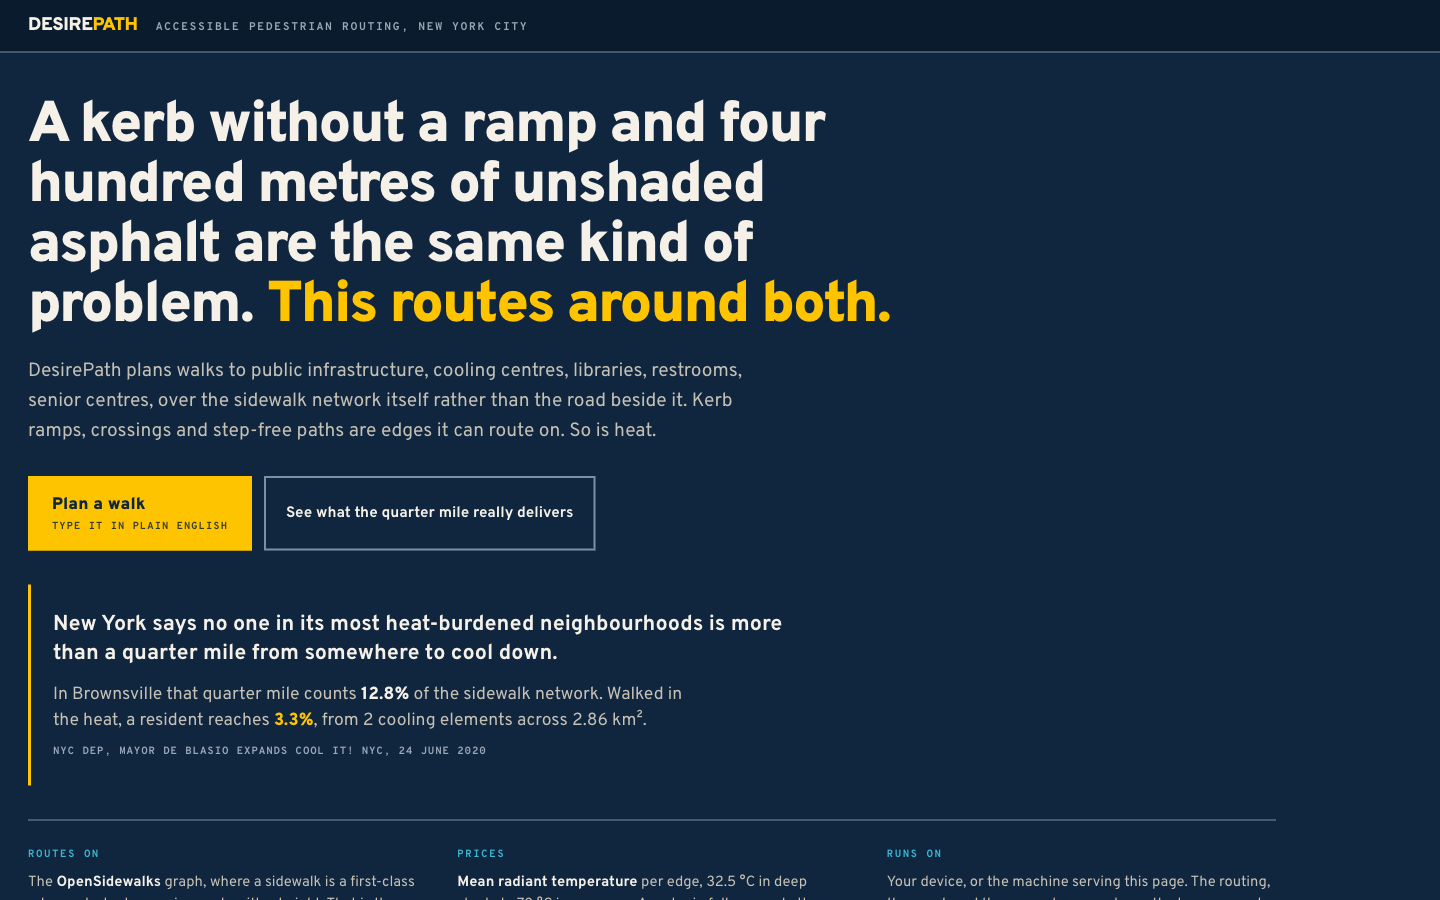
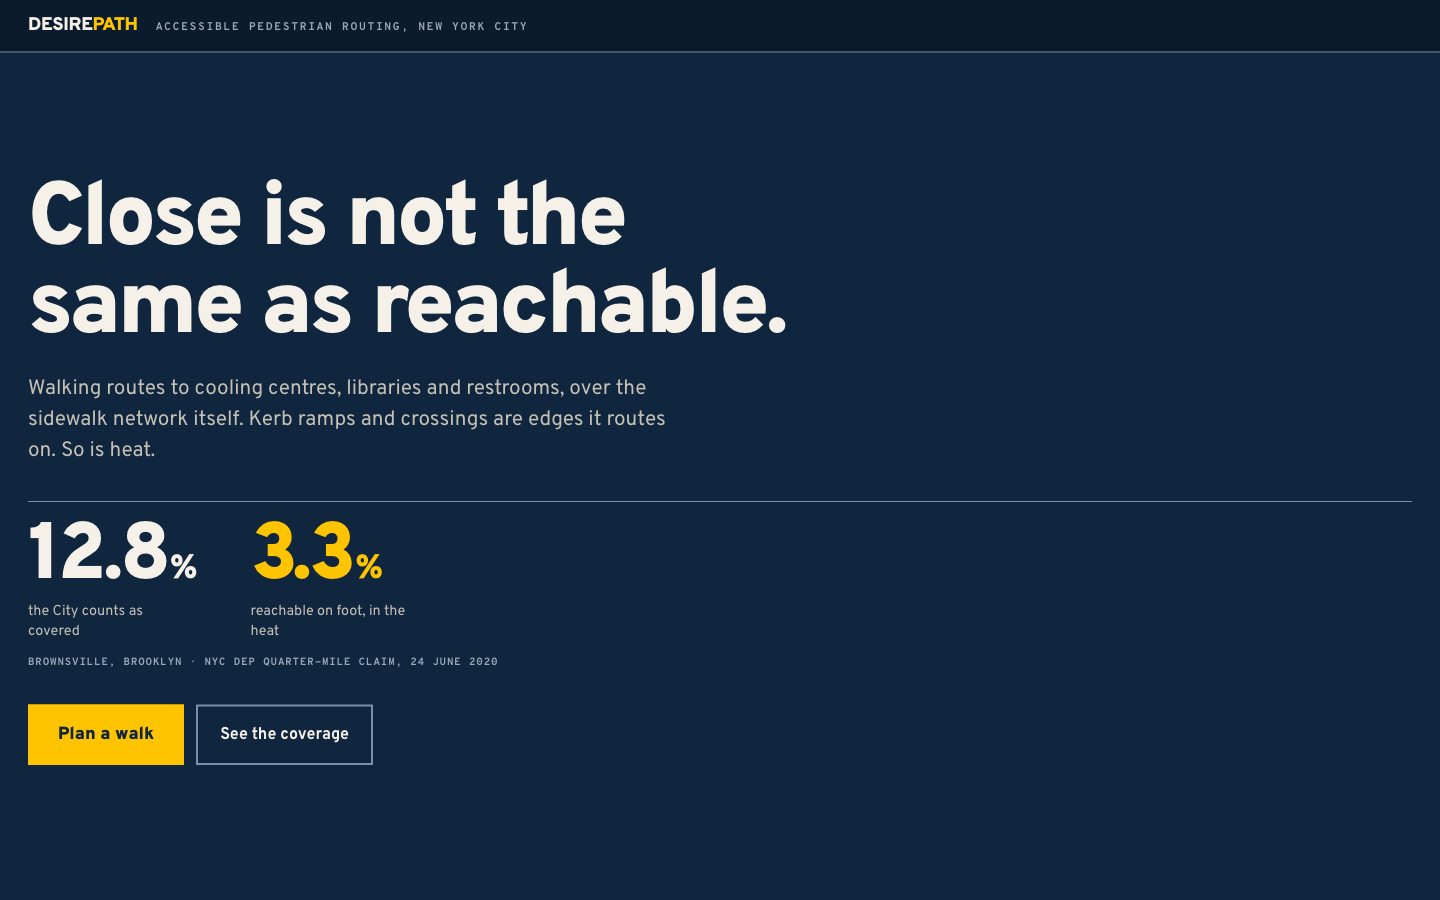
Cut the landing page down to a pitch backdrop
It was written as a document: three paragraphs, a three-column definition
list and a limits note. It is going on a projector while somebody talks over
it, so it has to be glanceable, not readable. Those facts are in README.md and
THESIS.md where somebody can actually sit with them.

What is left is a six-word line, one sentence of what it does, the two numbers
side by side, and the button. Title went from 27 words to six.

Slop audit clean: detector 0 findings across every route and component, 0
contrast failures at 1440 and 390, no target under 24px, one h1, one main, no
horizontal scroll.

diff --git a/app/src/routes/+page.svelte b/app/src/routes/+page.svelte
@@ -1,23 +1,23 @@
 <script lang="ts">
   /**
-   * The landing page.
+   * The landing page, which is a pitch backdrop.
    *
-   * One job: say what this is and get out of the way. The routing view is one
-   * click from here and the coverage notice is the other.
+   * It sits on a projector while somebody talks over it, so it is built to be
+   * glanced at rather than read: a line, a pair of numbers and one button. The
+   * first version was three paragraphs, a three-column definition list and a
+   * limits note, which is a document. Those facts live in README.md and
+   * THESIS.md, where somebody can actually read them.
    *
-   * It carries no model, no graph and no map, so it is ready the moment it is
-   * served. That matters on a phone in the heat, and it matters on a projector
-   * where the first thing a room sees should not be a loading bar.
+   * It loads no model, no graph and no map, so it is ready the moment it is
+   * served and there is never a loading bar behind the speaker.
    */
-  import { REFERENCE_METEOROLOGY } from '$lib/domain/thermal-constants';
-  import { SUN_INFLATION_DEFAULT, SUN_INFLATION_SENSITIVE } from '$lib/domain/thermal-constants';
 
-  /** Measured, from tests/thermal-cases.json and the coverage build. */
-  const BROWNSVILLE = { claimed: 12.8, reachable: 3.3, elements: 2, km2: 2.86 };
+  /** Measured. tests/thermal-cases.json and the coverage build. */
+  const BROWNSVILLE = { claimed: 12.8, reachable: 3.3 };
 </script>
 
 <svelte:head>
-  <title>DesirePath. Accessible routing to the places a city says are close</title>
+  <title>DesirePath. Close is not the same as reachable</title>
 </svelte:head>
 
 <div class="sheet">
@@ -26,91 +26,33 @@
     <p class="subject">Accessible pedestrian routing, New York City</p>
   </header>
 
-  <div class="body">
-    <!-- The thesis, at the top, in one sentence a person can repeat. -->
-    <section class="lede">
-      <h1>
-        A kerb without a ramp and four hundred metres of unshaded asphalt are
-        the same kind of problem. <span class="hi">This routes around both.</span>
-      </h1>
-      <p class="sub">
-        DesirePath plans walks to public infrastructure, cooling centres,
-        libraries, restrooms, senior centres, over the sidewalk network itself
-        rather than the road beside it. Kerb ramps, crossings and step-free
-        paths are edges it can route on. So is heat.
-      </p>
+  <div class="stage">
+    <h1>Close is not the same as reachable.</h1>
 
-      <div class="actions">
-        <a class="go" href="/route">
-          Plan a walk
-          <span class="go-sub">type it in plain English</span>
-        </a>
-        <a class="alt" href="/coverage?nta=BK1602">
-          See what the quarter mile really delivers
-        </a>
+    <p class="sub">
+      Walking routes to cooling centres, libraries and restrooms, over the
+      sidewalk network itself. Kerb ramps and crossings are edges it routes on.
+      So is heat.
+    </p>
+
+    <!-- The finding, as two numbers side by side. This is the thing to look at
+         while somebody says the sentence out loud. -->
+    <div class="figures">
+      <div class="fig">
+        <p class="fig-n">{BROWNSVILLE.claimed}<span class="pc">%</span></p>
+        <p class="fig-l">the City counts as covered</p>
       </div>
-    </section>
+      <div class="fig fig-short">
+        <p class="fig-n">{BROWNSVILLE.reachable}<span class="pc">%</span></p>
+        <p class="fig-l">reachable on foot, in the heat</p>
+      </div>
+      <p class="fig-where">Brownsville, Brooklyn &middot; NYC DEP quarter-mile claim, 24 June 2020</p>
+    </div>
 
-    <!-- The finding. One number, stated the way it would be said out loud. -->
-    <section class="finding">
-      <p class="claim">
-        New York says no one in its most heat-burdened neighbourhoods is more
-        than a quarter mile from somewhere to cool down.
-      </p>
-      <p class="against">
-        In Brownsville that quarter mile counts
-        <strong>{BROWNSVILLE.claimed}%</strong> of the sidewalk network. Walked
-        in the heat, a resident reaches
-        <strong class="short">{BROWNSVILLE.reachable}%</strong>, from
-        {BROWNSVILLE.elements} cooling elements across {BROWNSVILLE.km2} km².
-      </p>
-      <p class="cite">NYC DEP, Mayor de Blasio Expands Cool It! NYC, 24 June 2020</p>
-    </section>
-
-    <!-- What it is built on. Three facts, no icons, no cards. -->
-    <section class="how">
-      <dl>
-        <div>
-          <dt>Routes on</dt>
-          <dd>
-            The <strong>OpenSidewalks</strong> graph, where a sidewalk is a
-            first-class edge and a kerb ramp is a node with a height. That is
-            the contribution; this is a consumer of it.
-          </dd>
-        </div>
-        <div>
-          <dt>Prices</dt>
-          <dd>
-            <strong>Mean radiant temperature</strong> per edge, 32.5&nbsp;°C in
-            deep shade to 70&nbsp;°C in open sun. A metre in full sun costs the
-            router up to <strong>1.84&nbsp;metres</strong>, after Melnikov et
-            al. (2022) and 408 observed path choices.
-          </dd>
-        </div>
-        <div>
-          <dt>Runs on</dt>
-          <dd>
-            Your device, or the machine serving this page. The routing, the
-            graph and the geocoder never leave the browser, and the app says
-            which engine read your sentence.
-          </dd>
-        </div>
-      </dl>
-    </section>
-
-    <!-- The limits, on the front page rather than in a footnote. -->
-    <section class="limits">
-      <p>
-        Radiant temperature here is a <strong>proxy, not SOLWEIG</strong>, and
-        every artifact says so. Thermal survey covers five neighbourhoods,
-        7.67% of the city's edges; everywhere else routes exactly as it did
-        before. The field is one design hour, {REFERENCE_METEOROLOGY.air_temp_c}&nbsp;°C
-        air under clear sky, and does not know what time it is.
-        Sun inflation runs {SUN_INFLATION_DEFAULT} to {SUN_INFLATION_SENSITIVE}
-        and is <strong>0 unless a condition is stated</strong>, so a route with
-        none is identical to the one the pre-thermal router produced.
-      </p>
-    </section>
+    <div class="actions">
+      <a class="go" href="/route">Plan a walk</a>
+      <a class="alt" href="/coverage?nta=BK1602">See the coverage</a>
+    </div>
   </div>
 </div>
 
@@ -151,108 +93,61 @@
     color: var(--muted);
   }
 
-  .body {
+  /* One block, centred, sized to the room rather than to the page. */
+  .stage {
+    display: grid;
+    align-content: center;
+    gap: 0;
+    padding: 24px 28px 34px;
     overflow-y: auto;
-    padding: 0 28px 40px;
-  }
-
-  /* ── The thesis ────────────────────────────────────────────────────────── */
-  .lede {
-    max-width: 62rem;
-    padding: 44px 0 34px;
   }
 
   h1 {
-    max-width: 24ch;
-    font-size: clamp(1.9rem, 1.1rem + 3.1vw, 3.6rem);
+    max-width: 18ch;
+    font-size: clamp(2.4rem, 1rem + 5.4vw, 5.6rem);
     font-weight: 900;
-    line-height: 1.04;
-    letter-spacing: -0.035em;
+    line-height: 0.98;
+    letter-spacing: -0.04em;
     text-wrap: balance;
   }
-  .hi { color: var(--hivis); }
 
   .sub {
-    max-width: 58ch;
+    max-width: 50ch;
     margin-top: 20px;
-    font-size: clamp(0.98rem, 0.88rem + 0.4vw, 1.2rem);
-    line-height: 1.55;
-    color: var(--bone-2);
-  }
-
-  /* ── The one click ─────────────────────────────────────────────────────── */
-  .actions {
-    display: flex;
-    flex-wrap: wrap;
-    align-items: stretch;
-    gap: 12px;
-    margin-top: 30px;
-  }
-
-  /* The primary action is the only filled yellow on the page, so there is
-     never a question which one it is. */
-  .go {
-    display: grid;
-    gap: 2px;
-    padding: 14px 22px;
-    background: var(--hivis);
-    color: var(--slate);
-    font-size: 1.05rem;
-    font-weight: 900;
-    letter-spacing: 0.01em;
-    text-decoration: none;
-    border: 2px solid var(--hivis);
-  }
-  .go-sub {
-    font-family: var(--font-mono);
-    font-size: 0.64rem;
-    font-weight: 700;
-    letter-spacing: 0.1em;
-    text-transform: uppercase;
-    opacity: 0.85;
-  }
-  .go:hover { background: var(--hivis-2); border-color: var(--hivis-2); }
-  .go:focus-visible { outline: 3px solid var(--bone); outline-offset: 3px; }
-
-  .alt {
-    display: flex;
-    align-items: center;
-    padding: 14px 20px;
-    font-size: 0.95rem;
-    font-weight: 700;
-    color: var(--bone);
-    text-decoration: none;
-    border: 2px solid var(--subtle);
-  }
-  .alt:hover { border-color: var(--bone); }
-  .alt:focus-visible { outline: 3px solid var(--hivis); outline-offset: 3px; }
-
-  /* ── The finding ───────────────────────────────────────────────────────── */
-  .finding {
-    max-width: 62rem;
-    padding: 26px 0 26px 22px;
-    border-left: var(--rule-heavy) solid var(--hivis);
-  }
-
-  .claim {
-    max-width: 54ch;
-    font-size: clamp(1.05rem, 0.92rem + 0.5vw, 1.35rem);
-    font-weight: 700;
-    line-height: 1.35;
-  }
-
-  .against {
-    max-width: 56ch;
-    margin-top: 12px;
-    font-size: clamp(0.95rem, 0.88rem + 0.3vw, 1.1rem);
+    font-size: clamp(1rem, 0.9rem + 0.5vw, 1.3rem);
     line-height: 1.5;
     color: var(--bone-2);
   }
-  .against strong { color: var(--bone); font-weight: 800; }
-  .against strong.short { color: var(--hivis); }
 
-  .cite {
+  .figures {
+    display: flex;
+    flex-wrap: wrap;
+    align-items: flex-end;
+    gap: 14px 56px;
+    margin-top: 34px;
+    padding-top: 22px;
+    border-top: var(--rule-hair) solid var(--subtle);
+  }
+
+  .fig-n {
+    font-size: clamp(2.6rem, 1.2rem + 5vw, 5rem);
+    font-weight: 900;
+    line-height: 0.85;
+    letter-spacing: -0.045em;
+  }
+  .fig-n .pc { font-size: 0.42em; font-weight: 800; margin-left: 2px; }
+  .fig-short .fig-n { color: var(--hivis); }
+
+  .fig-l {
     margin-top: 10px;
+    max-width: 18ch;
+    font-size: 0.9rem;
+    line-height: 1.35;
+    color: var(--bone-2);
+  }
+
+  .fig-where {
+    flex-basis: 100%;
     font-family: var(--font-mono);
     font-size: 0.66rem;
     font-weight: 700;
@@ -261,57 +156,44 @@
     color: var(--muted);
   }
 
-  /* ── How ───────────────────────────────────────────────────────────────── */
-  .how {
-    max-width: 78rem;
+  .actions {
+    display: flex;
+    flex-wrap: wrap;
+    gap: 12px;
     margin-top: 34px;
-    padding-top: 26px;
-    border-top: var(--rule-hair) solid var(--subtle);
   }
 
-  .how dl {
-    display: grid;
-    grid-template-columns: repeat(auto-fit, minmax(17rem, 1fr));
-    gap: 26px 40px;
+  /* The only filled yellow on the page. */
+  .go {
+    padding: 15px 28px;
+    background: var(--hivis);
+    color: var(--slate);
+    font-size: 1.1rem;
+    font-weight: 900;
+    text-decoration: none;
+    border: 2px solid var(--hivis);
   }
+  .go:hover { background: var(--hivis-2); border-color: var(--hivis-2); }
+  .go:focus-visible { outline: 3px solid var(--bone); outline-offset: 3px; }
 
-  .how dt {
-    font-family: var(--font-mono);
-    font-size: 0.66rem;
+  .alt {
+    display: flex;
+    align-items: center;
+    padding: 15px 22px;
+    font-size: 1rem;
     font-weight: 700;
-    letter-spacing: 0.14em;
-    text-transform: uppercase;
-    color: var(--reach);
+    color: var(--bone);
+    text-decoration: none;
+    border: 2px solid var(--subtle);
   }
-
-  .how dd {
-    margin-top: 8px;
-    font-size: 0.92rem;
-    line-height: 1.55;
-    color: var(--bone-2);
-  }
-  .how dd strong { color: var(--bone); font-weight: 700; }
-
-  /* ── Limits ────────────────────────────────────────────────────────────── */
-  .limits {
-    max-width: 72rem;
-    margin-top: 30px;
-    padding-top: 20px;
-    border-top: var(--rule-hair) solid var(--subtle);
-  }
-  .limits p {
-    max-width: 86ch;
-    font-size: 0.82rem;
-    line-height: 1.6;
-    color: var(--muted);
-  }
-  .limits strong { color: var(--bone-2); font-weight: 700; }
+  .alt:hover { border-color: var(--bone); }
+  .alt:focus-visible { outline: 3px solid var(--hivis); outline-offset: 3px; }
 
   @media (max-width: 52rem) {
     .plate { flex-direction: column; align-items: flex-start; gap: 4px; padding: 10px 16px; }
-    .body { padding: 0 16px 32px; }
-    .lede { padding: 28px 0 24px; }
+    .stage { padding: 20px 16px 28px; }
+    .figures { gap: 18px 32px; margin-top: 26px; }
     .actions { flex-direction: column; align-items: stretch; }
-    .finding { padding-left: 16px; }
+    .go, .alt { text-align: center; justify-content: center; }
   }
 </style>
